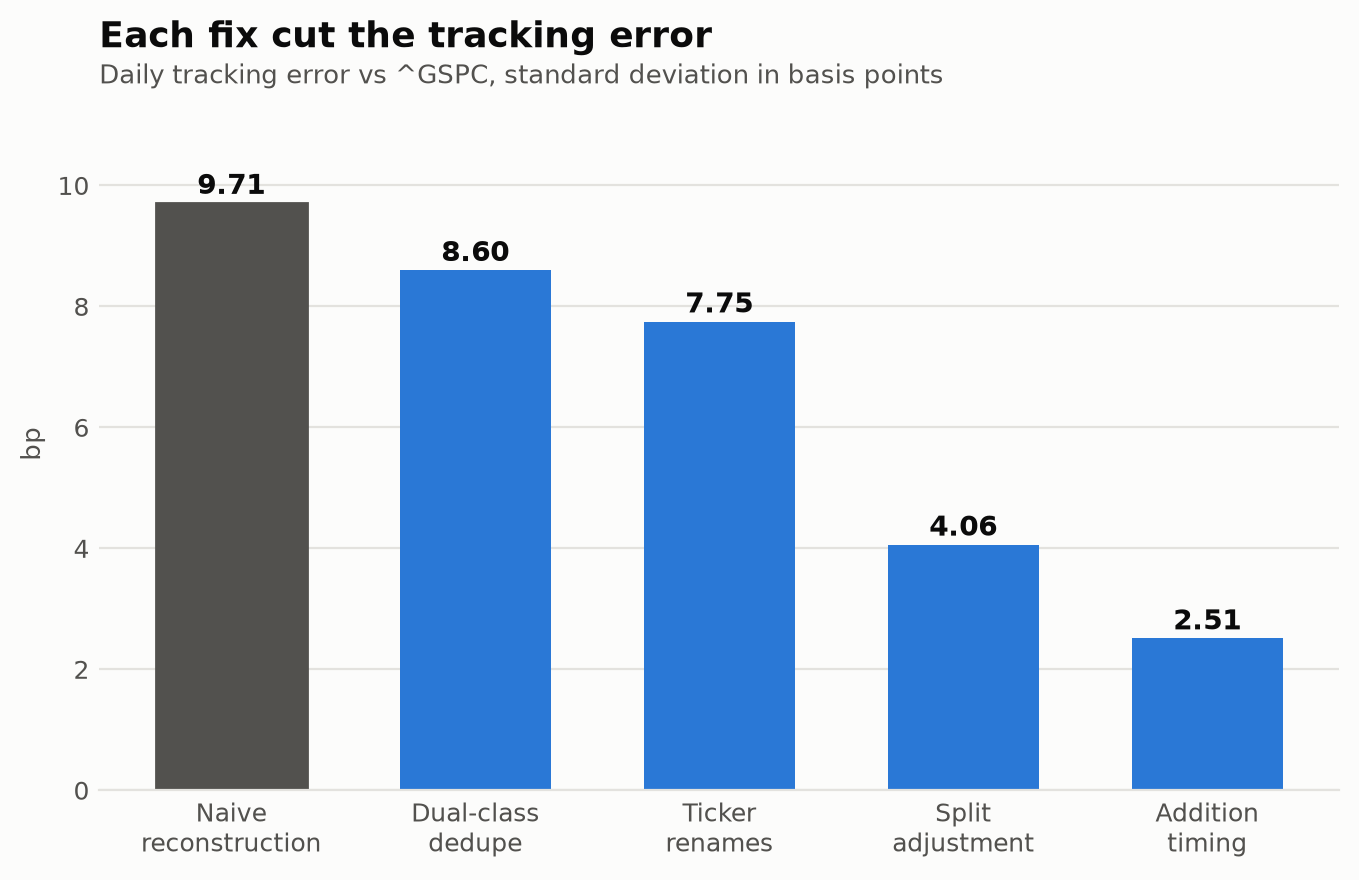
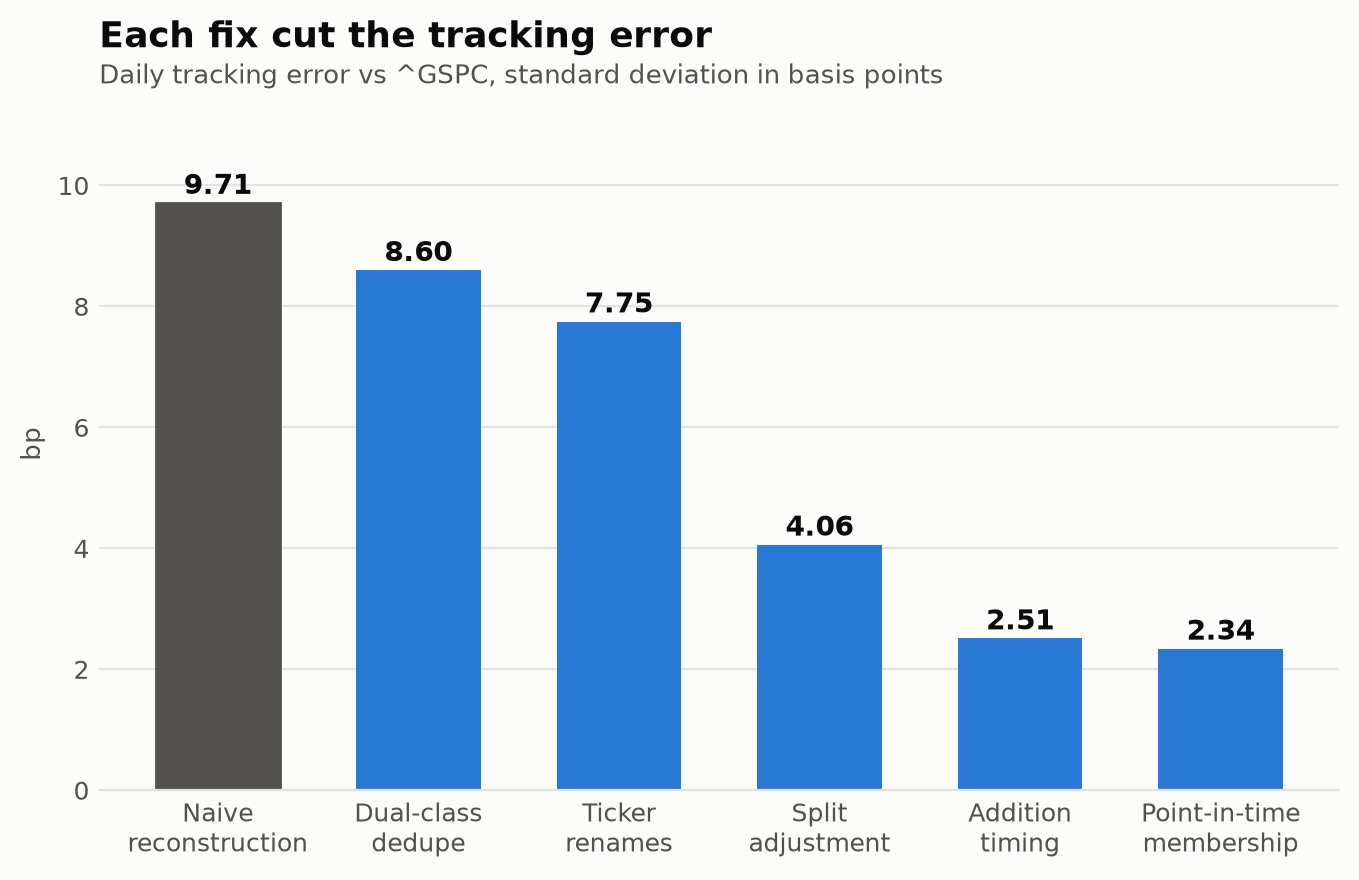
fix: include removed companies in index using change log

Changed region(s): [[0.1236, 0.1841, 0.8035, 0.9818], [0.8344, 0.675, 0.9581, 0.9818], [0.0927, 0.9205, 0.2472, 0.9818]]

diff --git a/src/cleaning.py b/src/cleaning.py
@@ -48,28 +48,51 @@ def clean_benchmark(raw_benchmark, index):
     return raw_benchmark["Close"].reindex(index)
 
 
-# A company only belongs to the index from the day it joined. Holding it earlier would
-# capture the run-up that earned it a place, which the real index never participated in.
-def build_membership(stocks, index, columns):
-    member = pd.DataFrame(True, index=index, columns=columns)
+# Point-in-time membership, walked backwards from today's list through the change log.
+# A change on date d means that before d the index held the removed name and not the
+# added one, so stepping back over it undoes both sides.
+def membership_timeline(current, changes):
+    members = set(current)
+    timeline = []                               # (valid_from, members) newest first
 
-    for row in stocks.itertuples():
-        if row.Ticker not in member.columns or pd.isna(row.Added):
-            continue                            # No date means it predates our window
-        
-        member.loc[member.index < row.Added, row.Ticker] = False
+    for date, group in sorted(changes.groupby("date"), reverse=True):
+        timeline.append((date, frozenset(members)))
+        for row in group.itertuples():
+            if isinstance(row.added, str):
+                members.discard(row.added)      # Was not a member before this date
+                
+            if isinstance(row.removed, str):
+                members.add(row.removed)        # Still a member before this date
+
+    timeline.append((pd.Timestamp.min, frozenset(members)))
+    return timeline                             # Last entry covers everything earlier
+
+
+# Turn the timeline into a dates x tickers boolean frame
+def build_membership(stocks, changes, index, columns):
+    timeline = membership_timeline(stocks["Ticker"], changes)
+    member = pd.DataFrame(False, index=index, columns=columns)
+
+    # Oldest first, so each later entry overwrites the tail it applies to
+    for valid_from, members in reversed(timeline):
+        rows = member.index >= valid_from
+        if not rows.any():
+            continue
+        held = [t for t in members if t in member.columns]
+        member.loc[rows, held] = True
+        member.loc[rows, [c for c in member.columns if c not in members]] = False
 
     return member
 
 
 # Build every clean dataframe and write it to data/clean
-def build_clean(stocks, prices, raw_shares, raw_benchmark, splits):
+def build_clean(stocks, changes, prices, raw_shares, raw_benchmark, splits):
     index = prices.index                    # The trading calendar everything else aligns to
 
     closes = clean_closes(prices)
     shares = adjust_shares(clean_shares(raw_shares, index), splits)
     benchmark = clean_benchmark(raw_benchmark, index)
-    membership = build_membership(stocks, index, closes.columns)
+    membership = build_membership(stocks, changes, index, closes.columns)
 
     CLEAN_DIR.mkdir(parents=True, exist_ok=True)
     closes.to_parquet(CLEAN_DIR / "closes.parquet")

diff --git a/src/download.py b/src/download.py
@@ -9,6 +9,7 @@ import yfinance as yf
 
 from config import (
     BENCHMARK,
+    CHANGES_URL,
     INDEX_URL,
     MAX_WORKERS,
     RAW_DIR,
@@ -47,6 +48,20 @@ def fetch_constituents():
     stocks["Ticker"] = stocks["Symbol"].str.replace(".", "-", regex=False)  # Yahoo writes BRK.B as BRK-B
     stocks["Added"] = pd.to_datetime(stocks["Date added"], errors="coerce")  # Blank for the original members
     return stocks
+
+
+# Every index addition and removal with its effective date, back to 1976
+def fetch_changes():
+    response = requests.get(CHANGES_URL, headers={"User-Agent": "Mozilla/5.0"})
+    response.raise_for_status()
+    table = pd.read_html(StringIO(response.text))[0]
+    table.columns = ["date", "added", "added_name", "removed", "removed_name", "reason", "refs"]
+
+    changes = table[["date", "added", "added_name", "removed", "removed_name"]].copy()
+    changes["date"] = pd.to_datetime(changes["date"], errors="coerce")
+    for column in ("added", "removed"):
+        changes[column] = changes[column].str.replace(".", "-", regex=False)  # Match Yahoo's spelling
+    return changes.dropna(subset=["date"]).sort_values("date").reset_index(drop=True)
 
 
 # Daily OHLCV for every ticker, columns are a (ticker, field) MultiIndex
@@ -169,7 +184,13 @@ def fetch_splits(tickers):
 # Fetch or load every raw input, and write each to data/raw
 def load_raw(refresh=False):
     stocks = cached(RAW_DIR / "constituents.parquet", fetch_constituents, refresh)
-    tickers = stocks["Ticker"].tolist()
+    changes = cached(RAW_DIR / "changes.parquet", fetch_changes, refresh)
+
+    # Companies removed during the window were index members for part of it, so we
+    # need their prices too. Without them the dataframe only ever holds survivors.
+    in_window = changes[changes["date"] >= pd.Timestamp(START)]
+    dropped = set(in_window["removed"].dropna()) | set(in_window["added"].dropna())
+    tickers = sorted(set(stocks["Ticker"]) | dropped)
 
     prices = cached(RAW_DIR / "prices.parquet", lambda: fetch_prices(tickers), refresh)
     window_start = prices.index.min()
@@ -178,4 +199,4 @@ def load_raw(refresh=False):
     benchmark = cached(RAW_DIR / "benchmark.parquet", fetch_benchmark, refresh)
     splits = cached(RAW_DIR / "splits.parquet", lambda: fetch_splits(tickers), refresh)
 
-    return stocks, prices, shares, benchmark, splits
+    return stocks, changes, prices, shares, benchmark, splits

diff --git a/src/plots.py b/src/plots.py
@@ -33,6 +33,7 @@ FIX_LADDER = [
     ("Ticker\nrenames", 7.75),
     ("Split\nadjustment", 4.06),
     ("Addition\ntiming", 2.51),
+    ("Point-in-time\nmembership", 2.34),
 ]
 
 def style(ax, title, subtitle=None, ylabel=None):
@@ -89,22 +90,24 @@ def plot_tracking(level, benchmark):
 
     top.plot(cmp.index, cmp["published"], color=THEIRS, linewidth=2, label="Published (^GSPC)")
     top.plot(cmp.index, cmp["reconstructed"], color=OURS, linewidth=2, label="Reconstruction")
+    correlation = cmp.our_return.corr(cmp.their_return)
     style(top, "The reconstruction tracks the index",
-          "Both rebased to 100 at 2022-01-03. Correlation of daily returns 0.99974", "Index level")
+          f"Both rebased to 100 at {cmp.index[0].date()}. "
+          f"Correlation of daily returns {correlation:.5f}", "Index level")
     top.legend(frameon=False, labelcolor=MUTED, fontsize=9.5, loc="upper left")
 
     bottom.axhline(0, color=GRID, linewidth=1)
     bottom.fill_between(gap.index, gap, color=OURS, alpha=0.22, linewidth=0)
     bottom.plot(gap.index, gap, color=OURS, linewidth=1.4)
     style(bottom, "", "Cumulative difference, percentage points", "pp")
-    bottom.yaxis.set_major_formatter(FuncFormatter(lambda v, _: f"{v:+.0f}"))
+    bottom.yaxis.set_major_formatter(FuncFormatter(lambda v, _: f"{v:+.1f}"))
     save(fig, "2_tracking.png")
 
 
 # 3. What the split mismatch did to a single weight
 def plot_nvda_split(closes, shares, membership):
-    raw = load_raw()[2]                         # Filed share counts, before split adjustment
-    unadjusted = clean_shares(raw, closes.index)
+    *_, raw_shares, _, _ = load_raw()           # Filed share counts, before split adjustment
+    unadjusted = clean_shares(raw_shares, closes.index)
 
     def weight_of(share_panel, ticker="NVDA"):
         caps = (closes * share_panel).where(membership)

diff --git a/src/pipeline.py b/src/pipeline.py
@@ -14,11 +14,11 @@ from validation import report, validate
 # Load every dataframe, fetching only what is not already cached
 def build(refresh=False):
     print("raw:")
-    stocks, prices, raw_shares, raw_benchmark, splits = load_raw(refresh)
+    stocks, changes, prices, raw_shares, raw_benchmark, splits = load_raw(refresh)
 
     # Clean layer is cheap to rebuild, so we always redo it rather than caching a stale version
     print("clean:")
-    closes, shares, benchmark, membership = build_clean(stocks, prices, raw_shares, raw_benchmark, splits)
+    closes, shares, benchmark, membership = build_clean(stocks, changes, prices, raw_shares, raw_benchmark, splits)
     print(f"  wrote closes {closes.shape}, shares {shares.shape}, benchmark {benchmark.shape}")
 
     report(*validate(closes, shares, membership))

diff --git a/src/config.py b/src/config.py
@@ -3,6 +3,7 @@
 from pathlib import Path
 
 INDEX_URL = "https://en.wikipedia.org/wiki/List_of_S%26P_500_companies" # Source to fetch constituent stock information
+CHANGES_URL = "https://en.wikipedia.org/wiki/Historical_components_of_the_S%26P_500"  # Additions and removals by date
 BENCHMARK = "^GSPC"         # The published price-return index, no dividends, matching auto_adjust=False
 
 START = "2022-01-01" # Start of time period

diff --git a/research/divergence.md b/research/divergence.md
@@ -3,9 +3,9 @@
 ## Current state
 
 - Window: 1179 trading days, 2022-01-03 to 2026-09-15
-- Correlation of daily returns: 0.99974
-- Daily tracking error: stdev 2.51bp, mean +0.13bp, worst day 14.1bp
-- Cumulative: ours +60.34%, published +58.06%, gap +228.3bp
+- Correlation of daily returns: 0.99978
+- Daily tracking error: stdev 2.34bp, mean +0.03bp, worst day 14.1bp
+- Cumulative: ours +58.51%, published +58.12%, gap +39.6bp
 
 - Benchmark is `^GSPC`, the price-return index
   - Excludes dividends, matching our `auto_adjust=False` price pull
@@ -13,18 +13,27 @@
   - `SPY` and `VOO` are funds with their own tracking error, so they measure someone else's error as well as ours
 
 - By year, all of it now small and mixed in sign
-  - 2022: TE 2.78bp, mean -0.06bp, gap -0.14pp
-  - 2023: TE 2.33bp, mean +0.39bp, gap +1.23pp
-  - 2024: TE 1.98bp, mean +0.34bp, gap +1.04pp
-  - 2025: TE 2.34bp, mean +0.06bp, gap +0.14pp
-  - 2026: TE 3.17bp, mean -0.19bp, gap -0.37pp
-  - 2026 is the weakest year, consistent with recently removed companies being the biggest remaining hole
+  - 2022: TE 2.56bp, mean -0.17bp, gap -0.38pp
+  - 2023: TE 1.97bp, mean +0.22bp, gap +0.67pp
+  - 2024: TE 1.77bp, mean +0.22bp, gap +0.68pp
+  - 2025: TE 2.26bp, mean +0.00bp, gap -0.00pp
+  - 2026: TE 3.18bp, mean -0.20bp, gap -0.40pp
+  - Mean daily difference across the whole window is +0.03bp, which is indistinguishable from zero. There is no systematic drift left
 
 - Judge changes by TE stdev, not the cumulative gap
   - Yearly errors of opposite sign cancel, so the gap can look small while the underlying errors are large
   - This happened: fixing renames improved every daily metric while the cumulative gap got worse, because a compensating error had been removed
 
 ## Fixes, in order of impact
+
+- Point-in-time membership, which removed the drift
+  - Until this we held today's 503 members for the whole window. Additions were corrected from `Date added`, but companies removed from the index were missing entirely, and they typically underperform before being dropped, so excluding them flattered our return
+  - Wikipedia's "Historical components of the S&P 500" page carries 407 additions and removals with effective dates back to 1976
+  - `fetch_changes` scrapes it. `load_raw` expands the universe from 503 to 589 tickers, adding every name added or removed during the window, since without their prices the data simply is not there
+  - `membership_timeline` walks backwards from today's list: a change on date d means that before d the index held the removed name and not the added one, so stepping back over it undoes both sides
+  - Gap +228.3bp to +39.6bp, mean daily +0.13bp to +0.03bp, TE stdev 2.51 to 2.34bp, correlation 0.99974 to 0.99978
+  - This confirmed what had been a hypothesis: the residual drift was the missing removed companies, not float or anything else
+  - Bug worth remembering: the first version walked the timeline newest first, so the oldest membership set was applied last and overwrote everything. The index showed a constant 312 members. Iterate oldest first so each later entry overwrites only the tail it applies to
 
 - Split adjustment, the largest error found
   - `auto_adjust=False` excludes dividends only. Yahoo's Close is split-adjusted either way, while `get_shares_full` reports as-filed counts, so market cap was wrong by the split ratio for every day before each split
@@ -34,11 +43,11 @@
   - TE stdev 7.75 to 4.06bp, worst day 54.2 to 16.0bp, correlation 0.99746 to 0.99950
   - 2024 went from the worst year (10.20bp) to near the best (3.47bp)
 
-- Addition timing, the main cause of the drift
-  - 77 of today's 503 members joined after 2022-01-03, roughly 15 a year, and all were held from day one
-  - Companies are added because they grew enough to qualify, so holding them early captures the run-up that earned them a place, which the real index never participated in
-  - Fix: `Date added` was already scraped and then discarded. `build_membership` in cleaning.py turns it into a boolean frame and `market_caps` applies it with `.where()`, so a non-member goes NaN and drops out of the weights
-  - Gap +588.4 to +228.3bp, TE stdev 4.06 to 2.51bp, mean +0.33 to +0.13bp, correlation 0.99950 to 0.99974
+- Addition timing, since superseded by full membership
+  - 77 of today's 503 members joined after 2022-01-03, roughly 15 a year, and all were held from day one. Companies are added because they grew enough to qualify, so holding them early captures the run-up that earned them a place
+  - Fixed using `Date added`, which was already scraped and then discarded
+  - Gap +588.4 to +228.3bp, TE stdev 4.06 to 2.51bp, mean +0.33 to +0.13bp
+  - The change log now supplies both sides, so `Date added` is no longer the source. This step is kept here because it isolated how much of the drift was additions (roughly 60%) versus removals (the rest)
 
 - Ticker renames
   - Yahoo carries price history back under a new symbol but files share counts only from the rename date, leaving prices with no share count for the earlier period
@@ -60,34 +69,37 @@
 
 ## Remaining defects
 
-- Companies removed from the index, the likely source of the residual +228bp
-  - Roughly 77 companies left the index over the window and are missing from our panel entirely
-  - They typically underperformed before being dropped, so excluding them flatters our return
-  - Hypothesis, not measured: the direction fits and the additions half behaved as predicted, but we cannot confirm without the data
-  - Wikipedia no longer carries a changes table, only the component list, so this needs a different source
+- Companies Yahoo will not price, about 3% of the index
+  - We now know who was a member and when, but 47 tickers have no price data at all: 17297 member-days, roughly 15 names at any time
+  - EA 1148d, CTRA 1089d, HOLX 1069d, K 989d, IPG 980d are the largest
+  - These are companies acquired (ATVI, CERN, XLNX, PXD), failed (SIVB, FRC, SBNY) or taken private. Yahoo drops the symbol once it stops trading
+  - They are correctly marked as members and simply fall out of the weights, so the error is bounded and named rather than hidden
+  - Ticker reuse is a live hazard here: SBNY returns 521 rows starting 2024, which is a different company using Signature Bank's old symbol after it failed in 2023. The membership mask handles it, since we only use data while a name was a member, but a naive universe expansion would inject the wrong prices
+  - The unpriceable fraction will grow the further back the window goes
 
 - Float adjustment
   - S&P weights by shares available to the public. We use full shares outstanding, so closely-held companies are overweighted: LVS 0.449, TMUS 0.453, WMT 0.547
   - Median float ratio is 0.994, so most names are almost fully floated and this only bites on a minority
   - Yahoo `floatShares` is usable for 485 of 503. 14 report a float above shares outstanding (dual-class names given a combined figure), BRK-B reports 0.001 which would delete Berkshire, 3 are missing
-  - Measured on the current panel: TE 2.51 to 2.28bp. It does not touch the drift, `mean_bp` stays at +0.13
-  - Deferred: it is a current scalar with no history, so applying today's ratio across 1179 days assumes insider stakes never changed
+  - Measured TE 2.51 to 2.28bp, but that was before the membership fix and has not been re-run. Treat it as indicative only
+  - It does not touch the drift, and there is now almost no drift left to touch, so the case for it is weaker than it was
+  - Deferred: it is a current scalar with no history, so applying today's ratio assumes insider stakes never changed
   - S&P uses a banded and rounded Investable Weight Factor anyway, so even perfect float would not reproduce official weights
 
 - No divisor
   - S&P adjusts its divisor on every buyback, issuance and membership change so the published level does not jump on non-price events. We have no divisor, so those events leak into our series
   - Detectable without external data: `(weights.shift(1) * closes.pct_change()).sum(axis=1)` against `caps.sum(axis=1).pct_change()`. Price cancels algebraically between the two, so any difference is a share-count change
-  - 446 such days over the window, largest 2024-06-25 at -890.4bp and 2024-06-26 at +847.5bp
+  - 443 such days over the window, largest 2024-06-25 at -885.6bp and 2024-06-26 at +843.5bp
 
 - Share filings near split boundaries
   - The split factor is correct, but Yahoo's filing dates do not always sit on the expected side of a split
   - TPL filed a post-split count one day early and a pre-split count on the split date, so our cap read $39.67B then $4.42B against a true ~$13B
-  - 64 member-days across 38 tickers move the share count more than 1.5x in a day. Often self-cancelling, so invisible in the cumulative gap but real noise now that TE is 2.51bp
+  - 67 member-days across 40 tickers move the share count more than 1.5x in a day. Often self-cancelling, so invisible in the cumulative gap but real noise now that TE is 2.51bp
   - `check_share_jumps` reports these. It is a heuristic, not a missing-data check: a genuine large issuance can trip it
   - Fix would be to widen the split boundary a few days and take whichever filing agrees with its neighbours
 
 - Spinoff listing lag
-  - 42 member-days across 11 tickers where a company lists and trades before Yahoo files its first share count. PSKY 33d is most of it
+  - 45 member-days across 10 tickers where a company lists and trades before Yahoo files its first share count. PSKY 33d is most of it
   - No old symbol to fall back on, so a fix means carrying the first known value backwards, which asserts a share count for days before it was reported
 
 - Share count timing
@@ -99,7 +111,7 @@
 - Methods that did not work
   - Leave-one-out (rebuild without a stock, see if the gap shrinks) is invalid here. The published index still holds that stock, so removing it creates a mismatch by construction, conflating a stock's genuine return contribution with mis-weighting
   - It produced two false leads: MSFT as the cause of 2024, NVDA as the cause of the drift
-  - A flat year-by-year TE gradient was read as evidence against survivorship. Wrong test: survivorship shows up as drift in `mean_bp` and the cumulative gap, not as year-to-year noise
+  - A flat year-by-year TE gradient was read as evidence against survivorship. Wrong test: survivorship shows up as drift in `mean_bp` and the cumulative gap, not as year-to-year noise. Survivorship was in fact the whole of the remaining drift, as the membership fix later showed
 
 - Ruled out
   - MRNA +177% on 2026-08-19: no split, share count unchanged either side. A genuine news move, present in the published index too
@@ -107,7 +119,7 @@
   - Our market caps are not the problem. Cross-checked against Yahoo's own `marketCap` for the nine largest names, every one matches within 1%
 
 - What is not diverging
-  - Correlation 0.99974 over 1179 days means the construction is sound: elementwise market cap, row-normalised weights, one-day weight lag, compounding
+  - Correlation 0.99978 over 1179 days means the construction is sound: elementwise market cap, row-normalised weights, one-day weight lag, compounding
   - The residual is data quality, not index logic
 
 - Housekeeping

diff --git a/README.md b/README.md
@@ -15,15 +15,15 @@ Reproducing the exact returns may be difficult to achieve, but any differences i
 
 ## Actual Observations
 
-I was able to achieve a 0.99974 correlation of daily returns between my reconstruction of the index and the actual data after several iterations. A few key contributing factors to initial divergence were stock splits, addition timings of stocks to the index, and renaming of tickers. While other defects still exist, such as failing to incorporate the companies that previously existed in the index but have since been removed, I believe I have achieved the key objective of this study. Those interested in reading the findings in full can find them in [divergence.md](research/divergence.md). Some background research is also included in [s&p.md](research/s&p.md).
+I was able to achieve a 0.99978 correlation of daily returns between my reconstruction of the index and the actual data after several iterations. A few key contributing factors to initial divergence were stock splits, addition timings of stocks to the index, and renaming of tickers. While other defects still exist, such as the roughly 3% of index members that Yahoo no longer prices once they are acquired or delisted, I believe I have achieved the key objective of this study. Those interested in reading the findings in full can find them in [divergence.md](research/divergence.md). Some background research is also included in [s&p.md](research/s&p.md).
 
 ## Result Visualisations
 
-Each iteration removed a defect and tightened the tracking error. The basic reconstruction was at 9.71bp of daily tracking error against the published index while the latest one sits at 2.51bp.
+Each iteration removed a defect and tightened the tracking error. The basic reconstruction was at 9.71bp of daily tracking error against the published index while the latest one sits at 2.34bp.
 
 ![Daily tracking error after each fix](figures/1_fix_ladder.png)
 
-Plotted against the published index, the two series are hard to tell apart. The panel underneath shows the cumulative difference, which is where the remaining bias is visible: it opens through 2023 and settles near +2 percentage points, most likely the companies removed from the index that are missing from my data.
+Plotted against the published index, the two series are hard to tell apart. The panel underneath shows the cumulative difference, which stays within roughly half a percentage point either way and ends at +0.4pp. The drift that used to sit here was the companies removed from the index, which point-in-time membership now handles.
 
 ![Reconstruction against the published index](figures/2_tracking.png)
 
